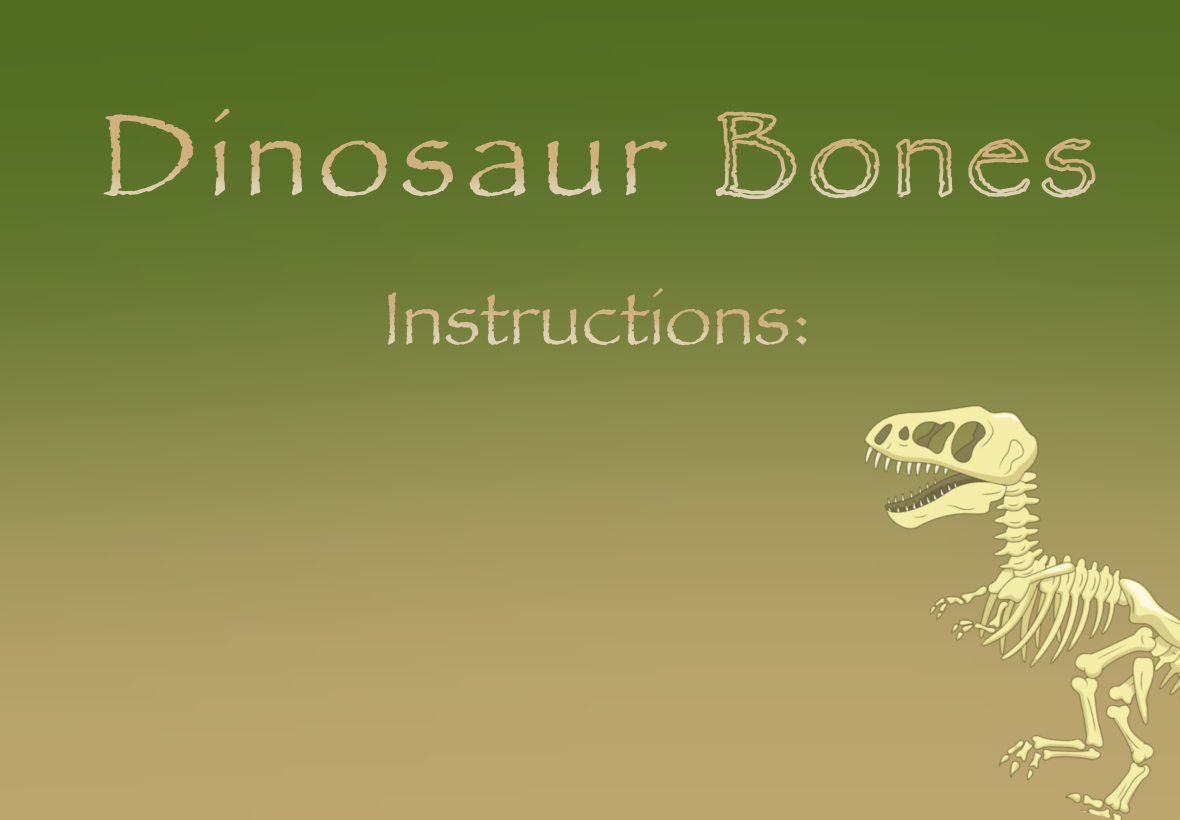
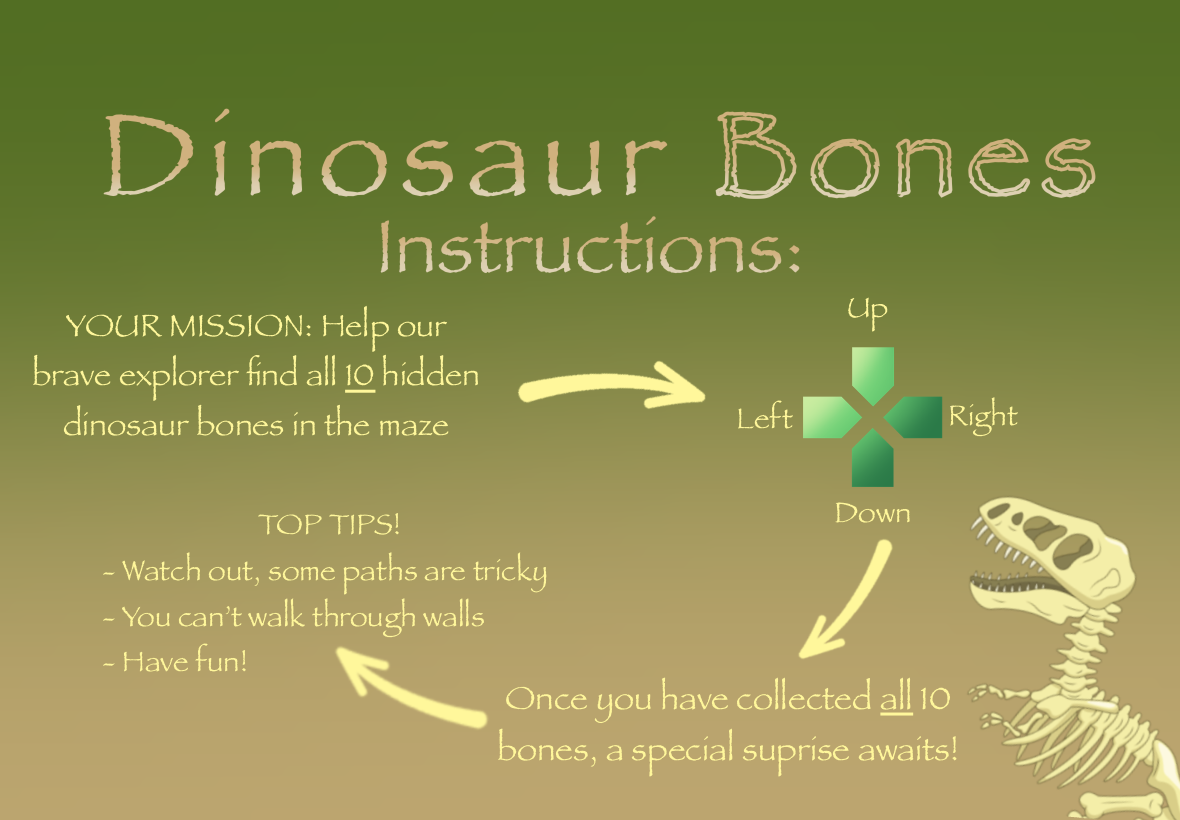
Implementation of instructions screen and completion screen

diff --git a/Game Code.py b/Game Code.py
@@ -5,7 +5,7 @@ import random
 # Initialises pygame
 pygame.init()
 
-# Screen images
+# Screen background images
 main_menu = pygame.image.load('main_menu.png')
 instructions_screen = pygame.image.load('instructions_screen.png')
 settings_screen = pygame.image.load('settings_screen.png')
@@ -25,6 +25,7 @@ skeleton = pygame.image.load('skeleton.png')
 grass = pygame.image.load('grass.jpg')
 controls = pygame.image.load('touch_controls.png')
 bone = pygame.image.load('bone.png')
+shine = pygame.image.load('shine.png')
 
 # Setting up screen dimensions
 Width, Height = 1180, 820
@@ -37,6 +38,9 @@ play_button = pygame.transform.scale(play_button, (button_width, button_height))
 instructions_button = pygame.transform.scale(instructions_button, (button_width, button_height))
 settings_button = pygame.transform.scale(settings_button, (button_width, button_height))
 back_button = pygame.transform.scale(back_button, (button_width - 20, button_height))
+home_button = pygame.transform.scale(home_button, (button_width - 60, button_height - 40))
+shine = pygame.transform.scale(shine, (1534, 780))
+
 
 # Defining button dimensions and spacings
 button_x = (Width - button_width) // 2
@@ -47,6 +51,7 @@ play_button_position = play_button.get_rect(topleft=(button_x, 300))
 instructions_button_position = instructions_button.get_rect(topleft=(button_x, play_button_position.bottom + button_spacing))
 settings_button_position = settings_button.get_rect(topleft=(button_x, instructions_button_position.bottom + button_spacing))
 back_button_position = back_button.get_rect(bottomleft=(-35, Height - 20))
+home_button_position = home_button.get_rect(topleft=(-35, Height - 85))
 
 Bone_count = 0
 Bone_font = pygame.font.Font(None, 25)
@@ -142,6 +147,34 @@ def draw_maze():
 
     #if 10 bones are collected the information page is shown
 
+shine_scale = 1.3  # Initial scale (1.0 = original size)
+scale_direction = 0.0065  # Speed of scaling (adjust for faster/slower effect)
+
+def draw_completion_screen():
+    screen.blit(completion_screen, (0, 0))
+    screen.blit(home_button, home_button_position.topleft)
+
+    global shine_scale, scale_direction
+    shine_scale += scale_direction  # Increase or decrease scale
+
+    # Reverse direction when hitting size limits
+    if shine_scale >= 1.56 or shine_scale <= 1.04:
+        scale_direction *= -1
+
+    # Scale the shine image
+    new_size = (int(800 * shine_scale), int(400 * shine_scale))
+    shine_resized = pygame.transform.scale(shine, new_size)
+
+    # Calculate position to keep it centered
+    shine_x = 190 - (new_size[0] - 800) // 2
+    shine_y = 80 - (new_size[1] - 800) // 2
+
+    # Draw the pulsating shine
+    screen.blit(shine_resized, (shine_x, shine_y))
+
+    # Draw the skeleton on top
+    screen.blit(skeleton, (200, 270))
+
 slider_x = 200
 slider_y = 500
 slider_width = 400
@@ -149,10 +182,6 @@ slider_height = 10
 knob_radius = 10
 knob_x = slider_x + slider_width // 2  # Start in the middle
 brightness = 1.0  # 1.0 = normal, <1.0 = darker
-
-
-def draw_completion_screen():
-    screen.blit(skeleton, (0, 0))#create an image of size 800x800 i think
 
 def Move_player(dx, dy):
     global player_row, player_col, collectible_col, collectible_row, Bone_count
@@ -197,13 +226,34 @@ while running:
             mouse_pos = pygame.mouse.get_pos()
             if game_state == 'menu':
                 if play_button_position.collidepoint(mouse_pos):
+                    overlay = pygame.Surface((button_width, button_height), pygame.SRCALPHA)
+                    overlay.fill((0, 153, 0, 51))  # Green overlay
+                    screen.blit(play_button, play_button_position.topleft)
+                    screen.blit(overlay, play_button_position.topleft)
+                    pygame.display.flip()
+                    pygame.time.delay(150)
                     game_state = 'game'
                 elif instructions_button_position.collidepoint(mouse_pos):
+                    overlay = pygame.Surface((button_width, button_height), pygame.SRCALPHA)
+                    overlay.fill((0, 153, 0, 51))  # Green overlay
+                    screen.blit(instructions_button, instructions_button_position.topleft)
+                    screen.blit(overlay, instructions_button_position.topleft)
+                    pygame.display.flip()
+                    pygame.time.delay(150)
                     game_state = 'instructions'
                 elif settings_button_position.collidepoint(mouse_pos):
+                    overlay = pygame.Surface((button_width, button_height), pygame.SRCALPHA)
+                    overlay.fill((0, 153, 0, 51))  # Green overlay
+                    screen.blit(settings_button, settings_button_position.topleft)
+                    screen.blit(overlay, settings_button_position.topleft)
+                    pygame.display.flip()
+                    pygame.time.delay(150)
                     game_state = 'settings'
             elif game_state in ['instructions', 'settings']:
                 if back_button_position.collidepoint(mouse_pos):
+                    game_state = 'menu'
+            elif game_state == 'complete':
+                if home_button_position.collidepoint(mouse_pos):
                     game_state = 'menu'
 
         elif event.type == pygame.KEYDOWN:
